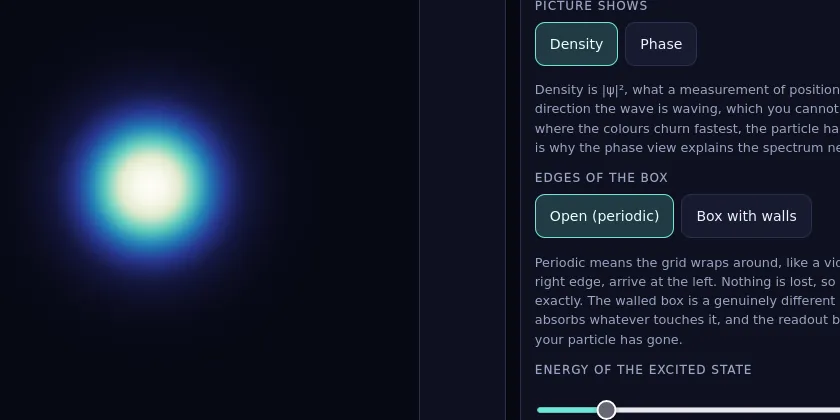
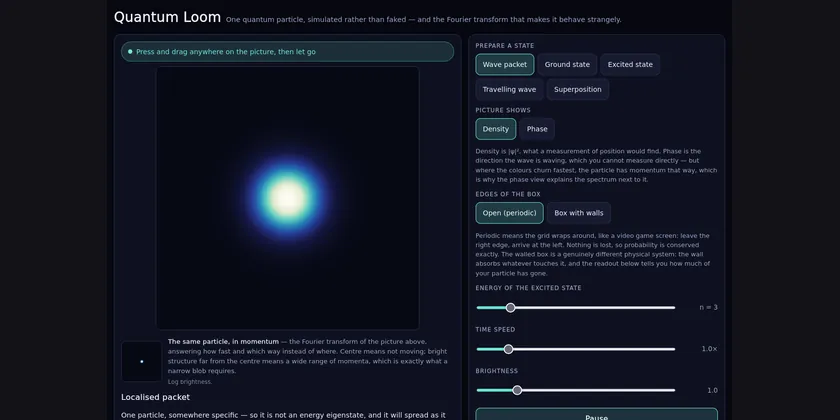
showcase: letterbox quantum-loom's card, and repaint for both card changes
quantum-loom's frame is a two-column app with a full-height column of controls
and prose on the right. A centre crop at the card's 2:1 aspect put that prose in
the frame and cut every paragraph mid-word ("...the spectrum ne", "...readout b
your particle has gone"). The repo already has a letter framing for exactly this
-- aurelia and saltmarsh use it -- so this adds one entry with the reason next
to it, rather than inventing a smart crop.

stem changed which README image it nominates (see that commit), so both cards
changed and all three baselines were legitimately stale (0.901% / 0.651% /
0.614% against a 0.100% limit). Repainted under the documented FONTCONFIG_FILE
repair. New baselines viewed before accepting: Stem now shows three pipes and
the register-2 standing wave, Quantum Loom shows the whole window legibly, no
card anywhere shows truncated prose.

Note for the next reader: Playwright's launch env option replaces rather than
extends process.env, so FONTCONFIG_FILE must be exported in the invoking shell
for the browser to see it. Without it the goldens run against the container's
single font and the guard reports it, which is the correct failure.

diff --git a/tools/make_thumbs.py b/tools/make_thumbs.py
@@ -78,6 +78,12 @@ FRAMING: dict[str, str] = {
     # equivalent here and would silently cut it again the next time the source's
     # aspect drifts.
     "saltmarsh": "letter",
+    # quantum-loom's frame is a two-column app: picture on the left, a full-height
+    # column of controls and prose on the right. A centre crop at 2:1 keeps the
+    # middle of both, which puts the right-hand column's paragraphs in the frame
+    # and cuts each of them mid-word ("...the spectrum ne", "...readout b").
+    # Letterboxing keeps the whole window legible instead of quoting prose badly.
+    "quantum-loom": "letter",
 }
 
 # Sources bigger than this are refused rather than encoded. A front page is one
